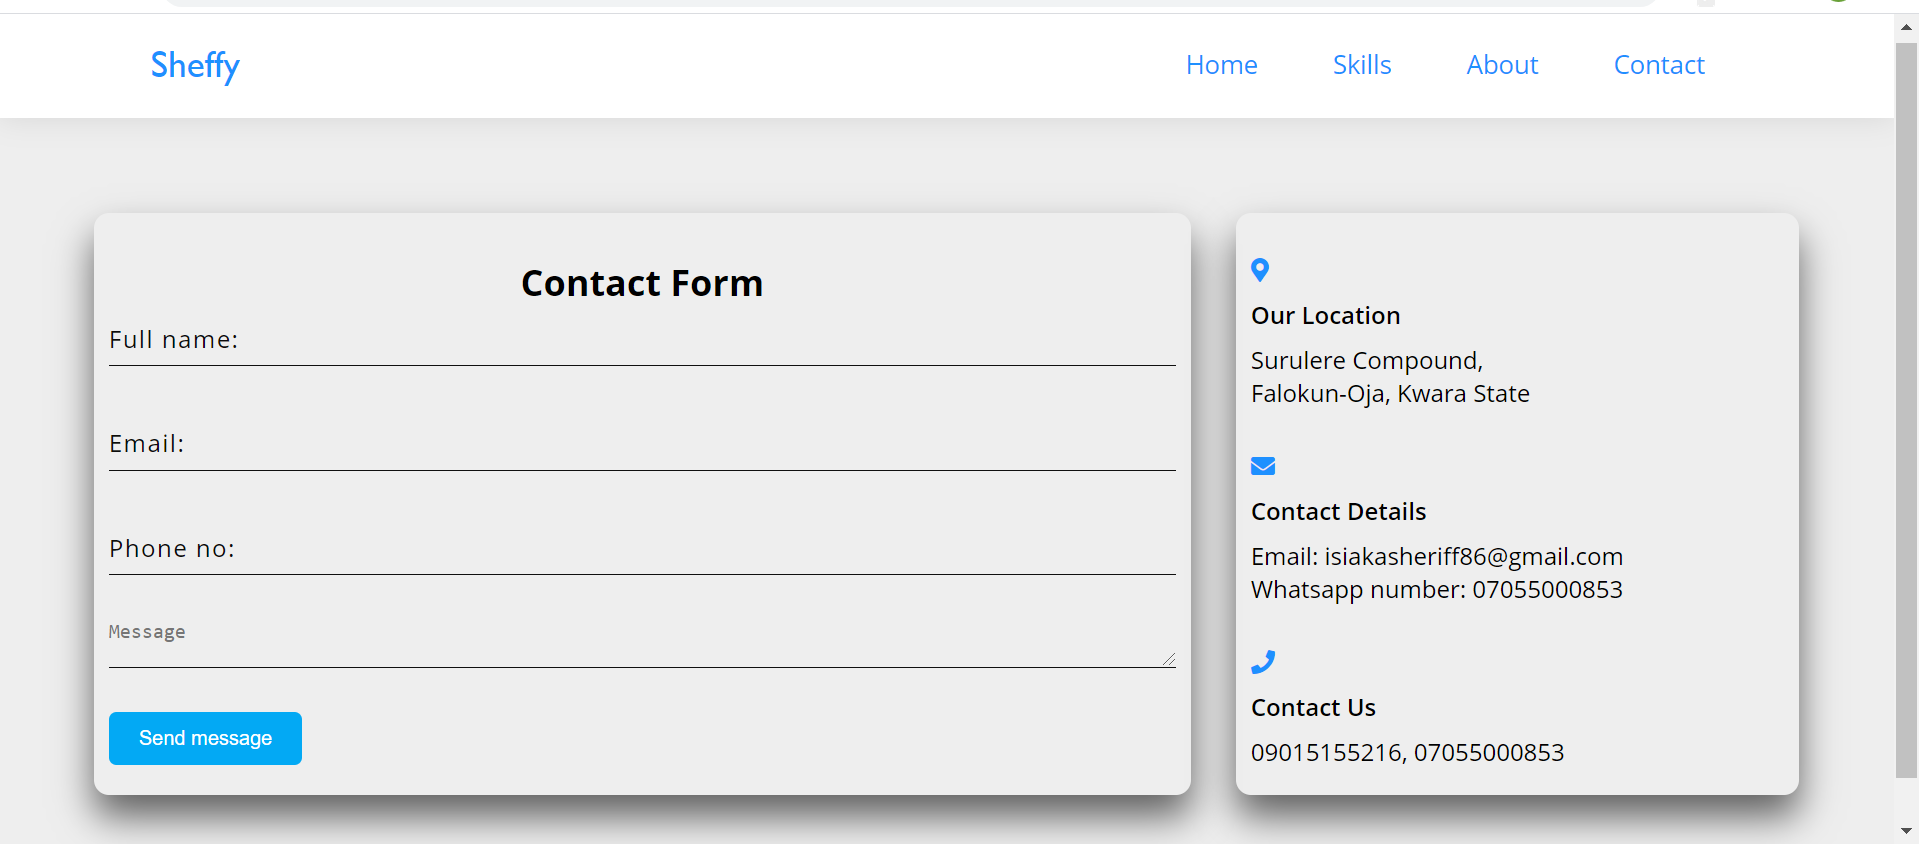
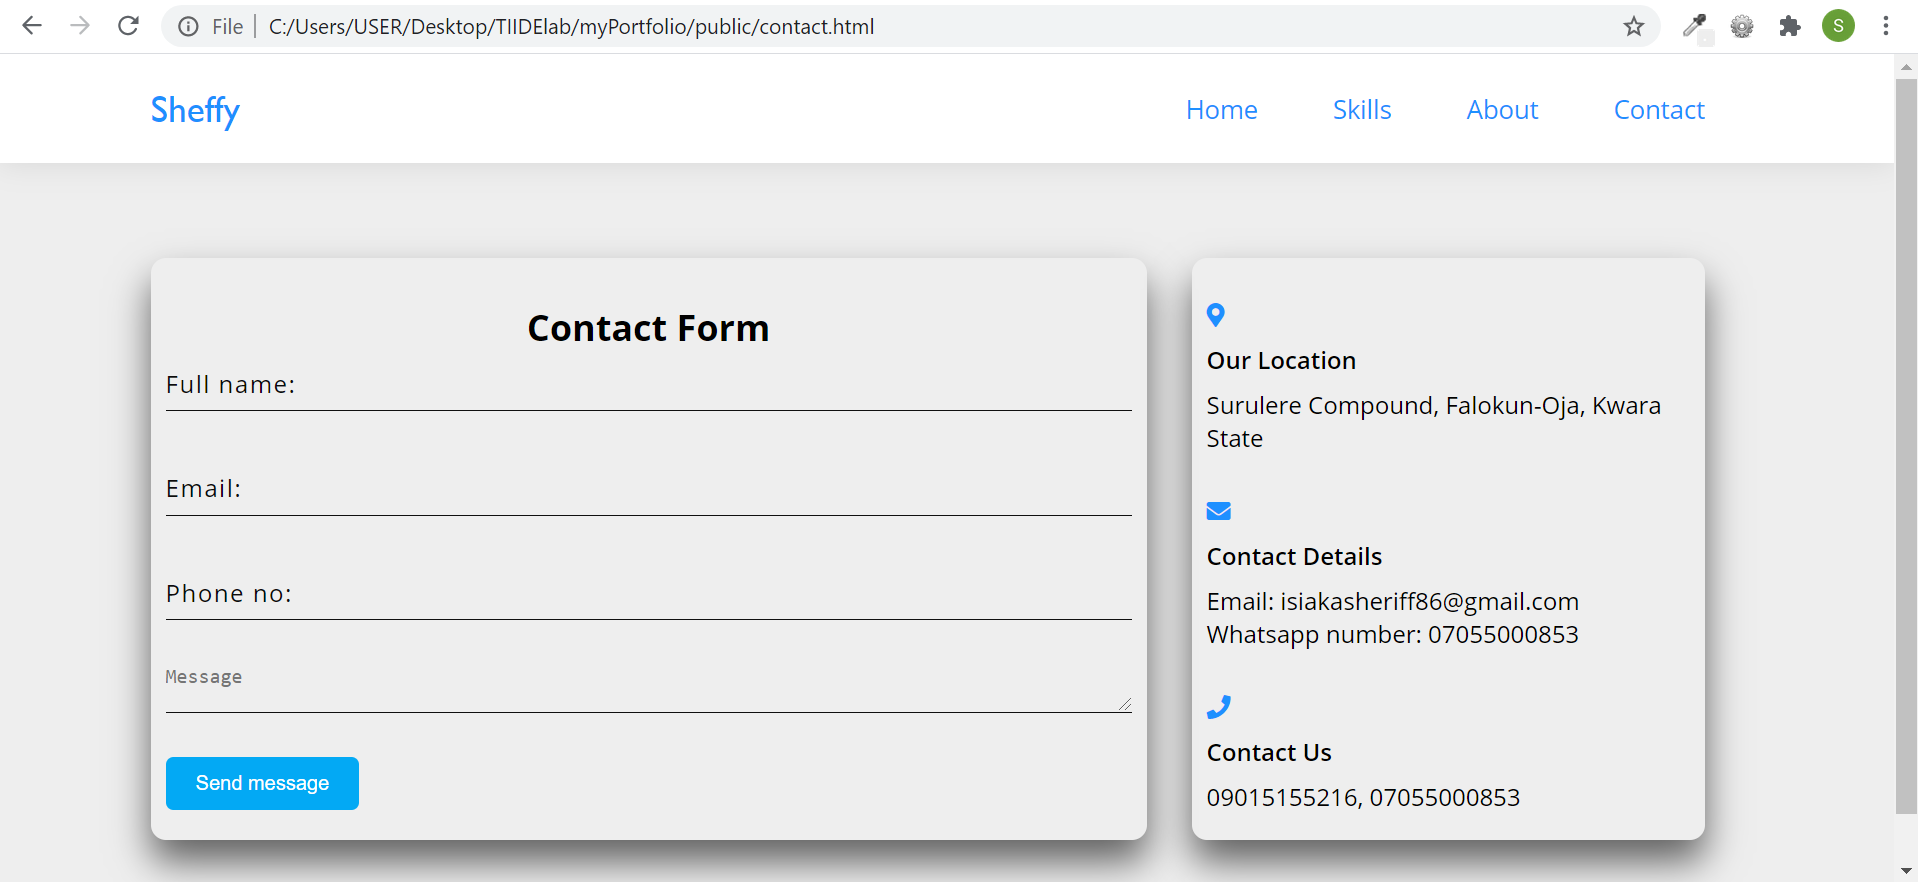
modified images

diff --git a/assets/css/contact.css b/assets/css/contact.css
@@ -12,8 +12,8 @@ body{
 
 .contact-info{
     display: flex;
-    margin: 5% 10%;
-    justify-content: center;
+    margin: 5% 10% 5% 8%;
+    /* justify-content: center; */
 
 }
 
